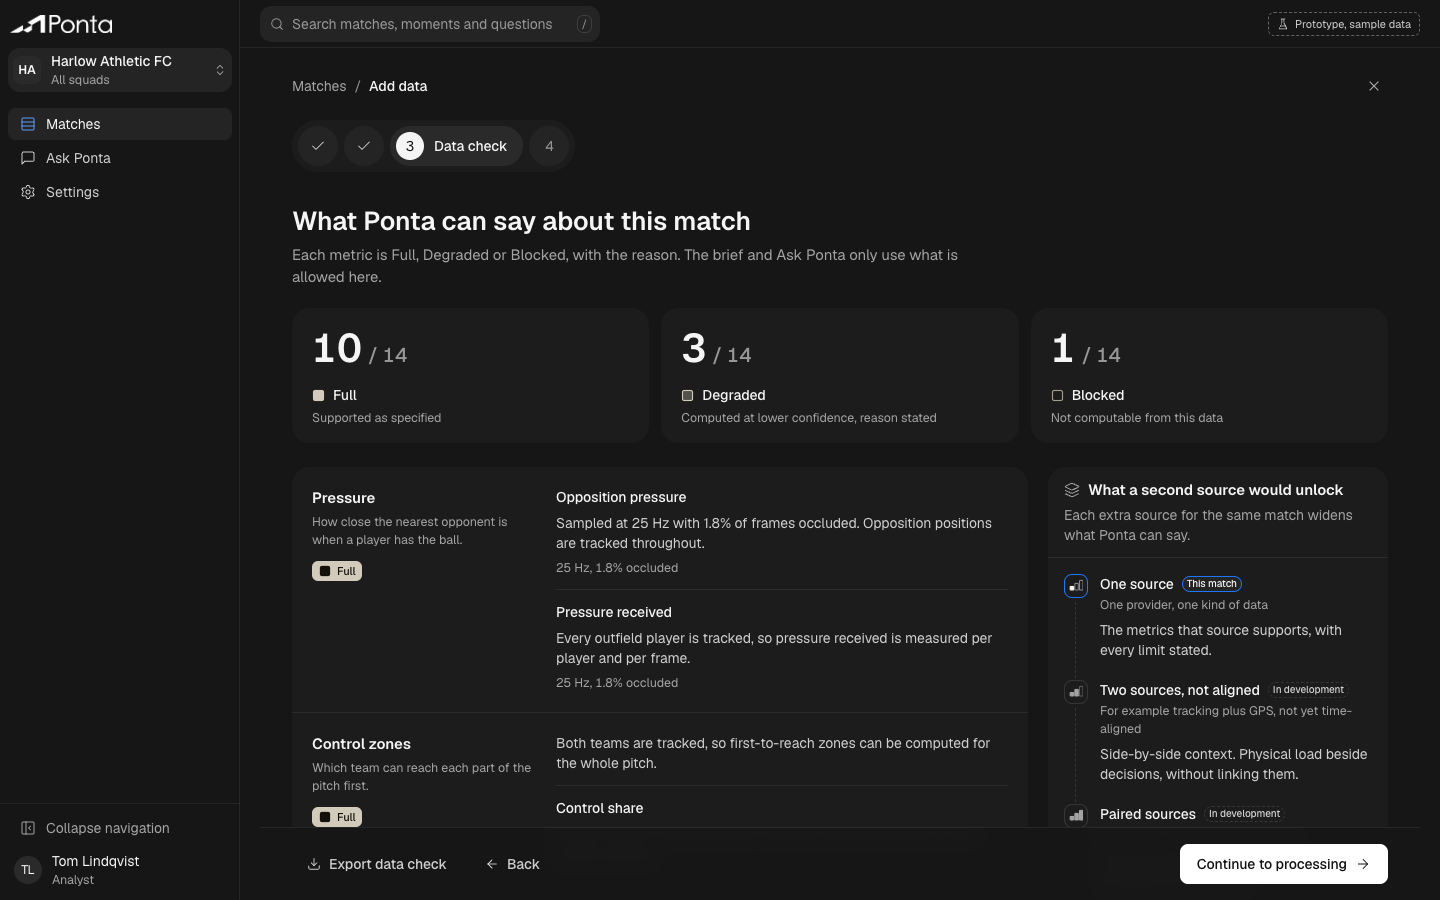
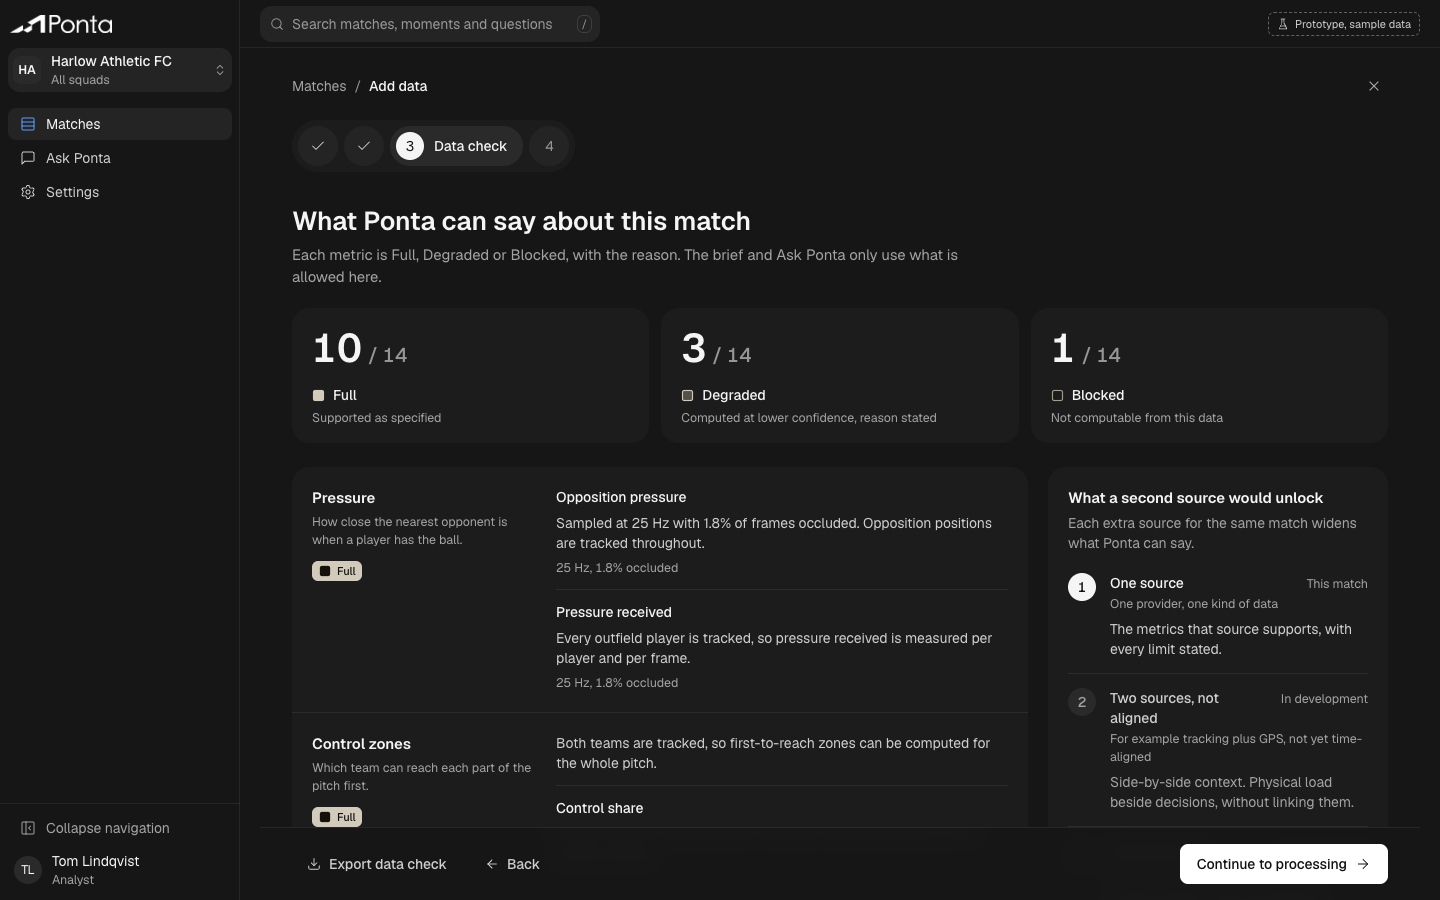
Data check: rework the second-source panel
Plain heading; three rows with numbered circles (white for this match), one line each and
quiet 'In development' text; the match's suggestion on its own tile; one primary action,
with 'Tell me when this is available' as a quiet text action. Connector line and chips removed.

Changed region(s): [[0.7188, 0.5289, 0.9375, 0.9333], [0.9062, 0.6222, 0.9375, 0.6533]]

diff --git a/src/components/parity/ParityGate.tsx b/src/components/parity/ParityGate.tsx
@@ -88,6 +88,11 @@ function FamilyRow({ family, report }: { family: (typeof FAMILIES)[number]; repo
   )
 }
 
+/**
+ * What a second source would unlock. Reference style: a plain heading, rows with a numbered
+ * circle (white for this match), one line each, quiet "In development" text, then the match's
+ * suggestion on its own tile and a single primary action.
+ */
 function Ladder({ match }: { match: Match }) {
   const { toast } = useApp()
   const report = useMemo(() => parityFor(match), [match])
@@ -102,47 +107,51 @@ function Ladder({ match }: { match: Match }) {
     { tier: 3 as const, title: t('gate.t3_title'), who: t('gate.t3_who'), unlocks: t('gate.t3_unlocks'), live: false },
   ]
   return (
-    <aside aria-labelledby="ladder-title" className="rounded-xl bg-s1">
-      <div className="border-b border-hair px-4 py-3">
-        <h3 id="ladder-title" className="flex items-center gap-2 text-base font-semibold text-fg-1">
-          <Layers className="size-4 text-fg-3" aria-hidden />
-          {t('gate.ladder_title')}
-        </h3>
-        <p className="mt-1 text-sm text-fg-3">{t('gate.ladder_intro')}</p>
-      </div>
-      <ol className="px-4 py-4">
-        {steps.map((s, i) => {
+    <aside aria-labelledby="ladder-title" className="rounded-xl bg-s1 p-5">
+      <h3 id="ladder-title" className="text-base font-semibold text-fg-1">
+        {t('gate.ladder_title')}
+      </h3>
+      <p className="mt-1 text-sm text-fg-3">{t('gate.ladder_intro')}</p>
+
+      <ol className="mt-4 flex flex-col">
+        {steps.map((s) => {
           const here = s.tier === match.tier
           return (
-            <li key={s.tier} className="relative flex gap-3 pb-5 last:pb-0">
-              {i < steps.length - 1 ? <span aria-hidden className="absolute left-[11px] top-7 h-[calc(100%-20px)] w-px border-l border-dashed border-hair-strong" /> : null}
-              <span className={cn('relative z-10 flex size-6 shrink-0 items-center justify-center rounded-md border bg-s1', here ? 'border-accent text-fg-1' : 'border-hair-strong text-fg-3')}>
-                <TierGlyph tier={s.tier} size={14} />
+            <li key={s.tier} aria-current={here ? 'step' : undefined} className="flex gap-3.5 border-t border-hair py-3.5 first:border-t-0 first:pt-1">
+              <span
+                aria-hidden
+                className={cn('flex size-7 shrink-0 items-center justify-center rounded-full text-sm font-medium tabular-nums', here ? 'bg-primary-fill text-on-primary' : 'bg-s3 text-fg-3')}
+              >
+                {s.tier}
               </span>
-              <div className="min-w-0">
-                <div className="flex flex-wrap items-center gap-2">
-                  <h4 className="text-sm font-medium text-fg-1">{s.title}</h4>
-                  {here ? <Tag className="h-4 border-accent px-1 text-[10px] text-fg-1">{t('gate.you_are_here')}</Tag> : null}
-                  {!s.live ? <Tag dashed className="h-4 px-1 text-[10px]">{t('tier.in_development')}</Tag> : null}
+              <div className="min-w-0 flex-1">
+                <div className="flex items-baseline justify-between gap-3">
+                  <h4 className={cn('text-sm font-medium', here || s.live ? 'text-fg-1' : 'text-fg-2')}>{s.title}</h4>
+                  <span className="shrink-0 text-xs text-fg-3">{here ? t('gate.you_are_here') : !s.live ? t('tier.in_development') : ''}</span>
                 </div>
                 <p className="mt-0.5 text-xs text-fg-3">{s.who}</p>
-                <p className="mt-1.5 text-sm text-fg-2">{s.unlocks}</p>
+                <p className={cn('mt-1.5 text-sm', here || s.live ? 'text-fg-2' : 'text-fg-3')}>{s.unlocks}</p>
               </div>
             </li>
           )
         })}
       </ol>
-      <div className="border-t border-hair bg-s2 px-4 py-3">
+
+      <div className="mt-3 rounded-lg bg-s2 p-4">
         <p className="text-sm text-fg-1">{suggestion}</p>
-        <div className="mt-3 flex flex-wrap gap-2">
-          <Link to={`/matches/new?match=${match.id}`} className={buttonStyles({ variant: 'secondary' })}>
-            <Plus className="size-3.5" aria-hidden />
-            {t('gate.add_source')}
-          </Link>
-          <Button variant="ghost" onClick={() => toast({ title: t('gate.toast_notify'), body: t('gate.toast_notify_body') })}>
-            {t('gate.notify')}
-          </Button>
-        </div>
+      </div>
+      <div className="mt-3 flex flex-col items-stretch gap-1">
+        <Link to={`/matches/new?match=${match.id}`} className={buttonStyles({ variant: 'primary' })}>
+          <Plus className="size-4" aria-hidden />
+          {t('gate.add_source')}
+        </Link>
+        <button
+          type="button"
+          onClick={() => toast({ title: t('gate.toast_notify'), body: t('gate.toast_notify_body') })}
+          className="h-9 rounded-lg text-sm text-fg-3 transition-colors hover:bg-s2 hover:text-fg-1"
+        >
+          {t('gate.notify')}
+        </button>
       </div>
     </aside>
   )
